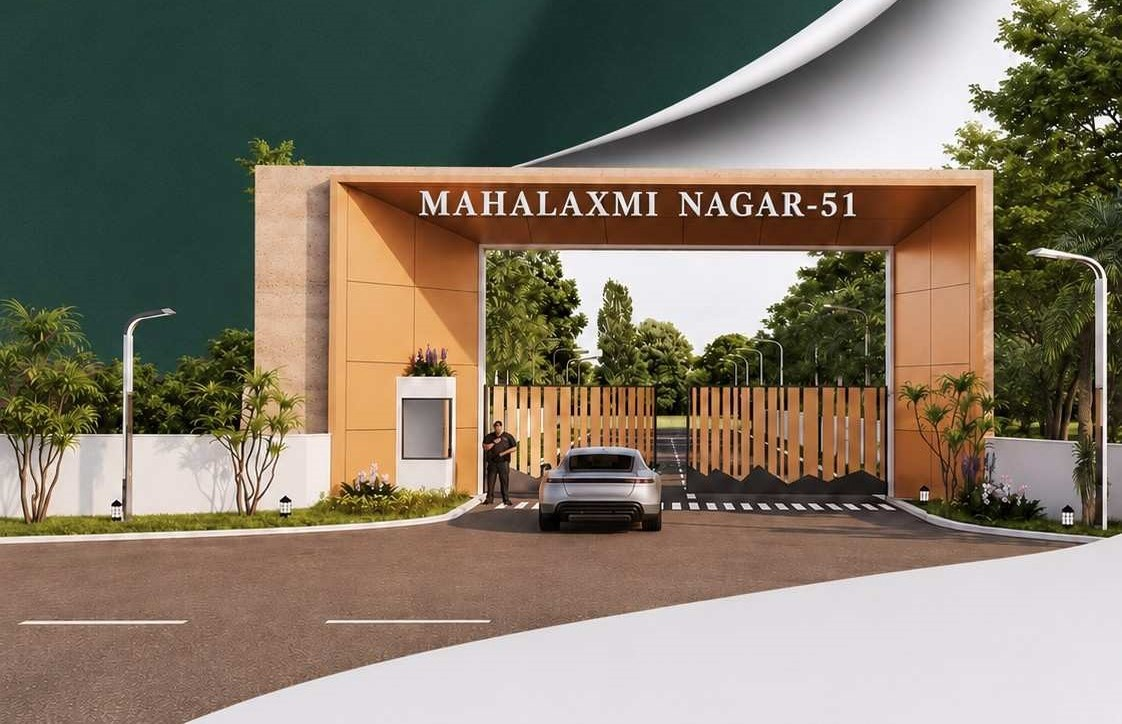
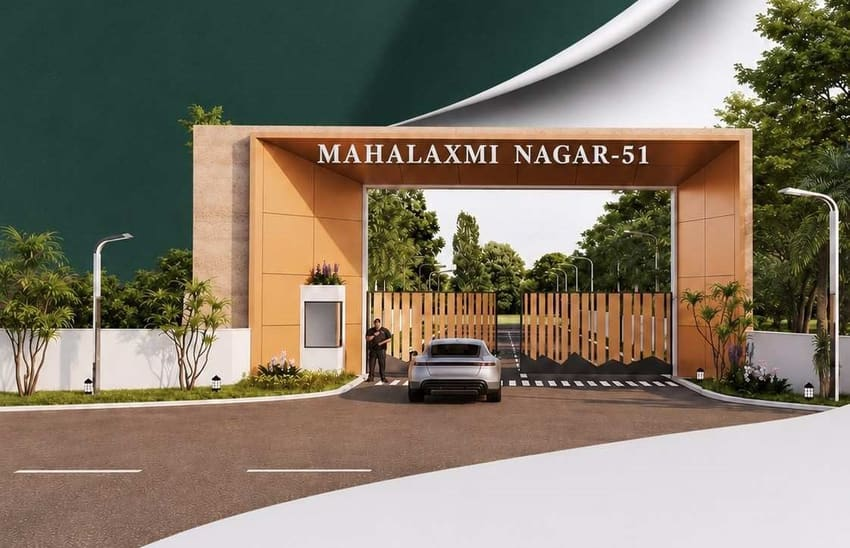
perf: defer GTM on interaction, optimize fonts and images, remove vercel analytics 404, fix stat contrast

Changed region(s): [[0.9482, 0.1551, 0.9788, 0.1861], [0.9482, 0.0, 0.9788, 0.031], [0.8871, 0.031, 0.9176, 0.062]]

diff --git a/app/layout.tsx b/app/layout.tsx
@@ -2,20 +2,21 @@ import type React from "react"
 import type { Metadata } from "next"
 import Script from "next/script"
 import { Poppins, Inter } from "next/font/google"
-import { Analytics } from "@vercel/analytics/next"
 import "./globals.css"
 import "@/styles/components.css"
 
 const poppins = Poppins({
   subsets: ["latin"],
-  weight: ["400", "500", "600", "700", "800"],
+  weight: ["400", "600", "700"],
   variable: "--font-heading",
+  display: "swap",
 })
 
 const inter = Inter({
   subsets: ["latin"],
   weight: ["400", "500", "600"],
   variable: "--font-sans",
+  display: "swap",
 })
 
 export const metadata: Metadata = {
@@ -173,9 +174,29 @@ export default function RootLayout({
         {/* Google Tag Manager */}
         <Script
           id="gtm-script"
-          strategy="lazyOnload"
+          strategy="afterInteractive"
           dangerouslySetInnerHTML={{
-            __html: `(function(w,d,s,l,i){w[l]=w[l]||[];w[l].push({'gtm.start':new Date().getTime(),event:'gtm.js'});var f=d.getElementsByTagName(s)[0],j=d.createElement(s),dl=l!='dataLayer'?'&l='+l:'';j.async=true;j.src='https://www.googletagmanager.com/gtm.js?id='+i+dl;f.parentNode.insertBefore(j,f);})(window,document,'script','dataLayer','GTM-TCG77MQD');`,
+            __html: `
+              window.dataLayer = window.dataLayer || [];
+              function initGTM() {
+                if (window.gtmDidInit) return;
+                window.gtmDidInit = true;
+                (function(w,d,s,l,i){w[l]=w[l]||[];w[l].push({'gtm.start':new Date().getTime(),event:'gtm.js'});var f=d.getElementsByTagName(s)[0],j=d.createElement(s),dl=l!='dataLayer'?'&l='+l:'';j.async=true;j.src='https://www.googletagmanager.com/gtm.js?id='+i+dl;f.parentNode.insertBefore(j,f);})(window,document,'script','dataLayer','GTM-TCG77MQD');
+              }
+              if (document.readyState === 'complete') {
+                ['scroll', 'mousemove', 'touchstart', 'click'].forEach(function(e) {
+                  window.addEventListener(e, initGTM, { once: true, passive: true });
+                });
+                setTimeout(initGTM, 4000);
+              } else {
+                window.addEventListener('load', function() {
+                  ['scroll', 'mousemove', 'touchstart', 'click'].forEach(function(e) {
+                    window.addEventListener(e, initGTM, { once: true, passive: true });
+                  });
+                  setTimeout(initGTM, 4000);
+                });
+              }
+            `,
           }}
         />
         
@@ -258,7 +279,6 @@ export default function RootLayout({
         </noscript>
  
         {children}
-        <Analytics />
       </body>
     </html>
   )

diff --git a/components/hero-section.tsx b/components/hero-section.tsx
@@ -438,7 +438,7 @@ export function HeroSection() {
                       fontSize: "2rem",
                       fontWeight: 800,
                       lineHeight: 1,
-                      color: "#C9862b",
+                      color: "#98590c",
                       minWidth: "96px",
                     }}
                   >
@@ -487,7 +487,7 @@ export function HeroSection() {
                   fontFamily: "'Poppins', sans-serif",
                   fontSize: "clamp(1.25rem, 4vw, 1.6rem)",
                   fontWeight: 800,
-                  color: "#C9862b",
+                  color: "#98590c",
                   marginBottom: "3px",
                 }}
               >

diff --git a/components/project-51-section.tsx b/components/project-51-section.tsx
@@ -53,10 +53,10 @@ const IMAGES = [
 ]
 
 const getCloudinaryThumb = (url: string) =>
-  url.replace("/upload/", "/upload/f_auto,q_auto,w_240,c_fill/")
+  url.replace("/upload/", "/upload/f_auto,q_auto,w_160,c_fill/")
 
 const getCloudinaryShowcase = (url: string) =>
-  url.replace("/upload/", "/upload/f_auto,q_auto,w_1080/")
+  url.replace("/upload/", "/upload/f_auto,q_auto,w_800/")
 
 const getCloudinaryFullscreen = (url: string) =>
   url.replace("/upload/", "/upload/f_auto,q_auto,w_1600/")
